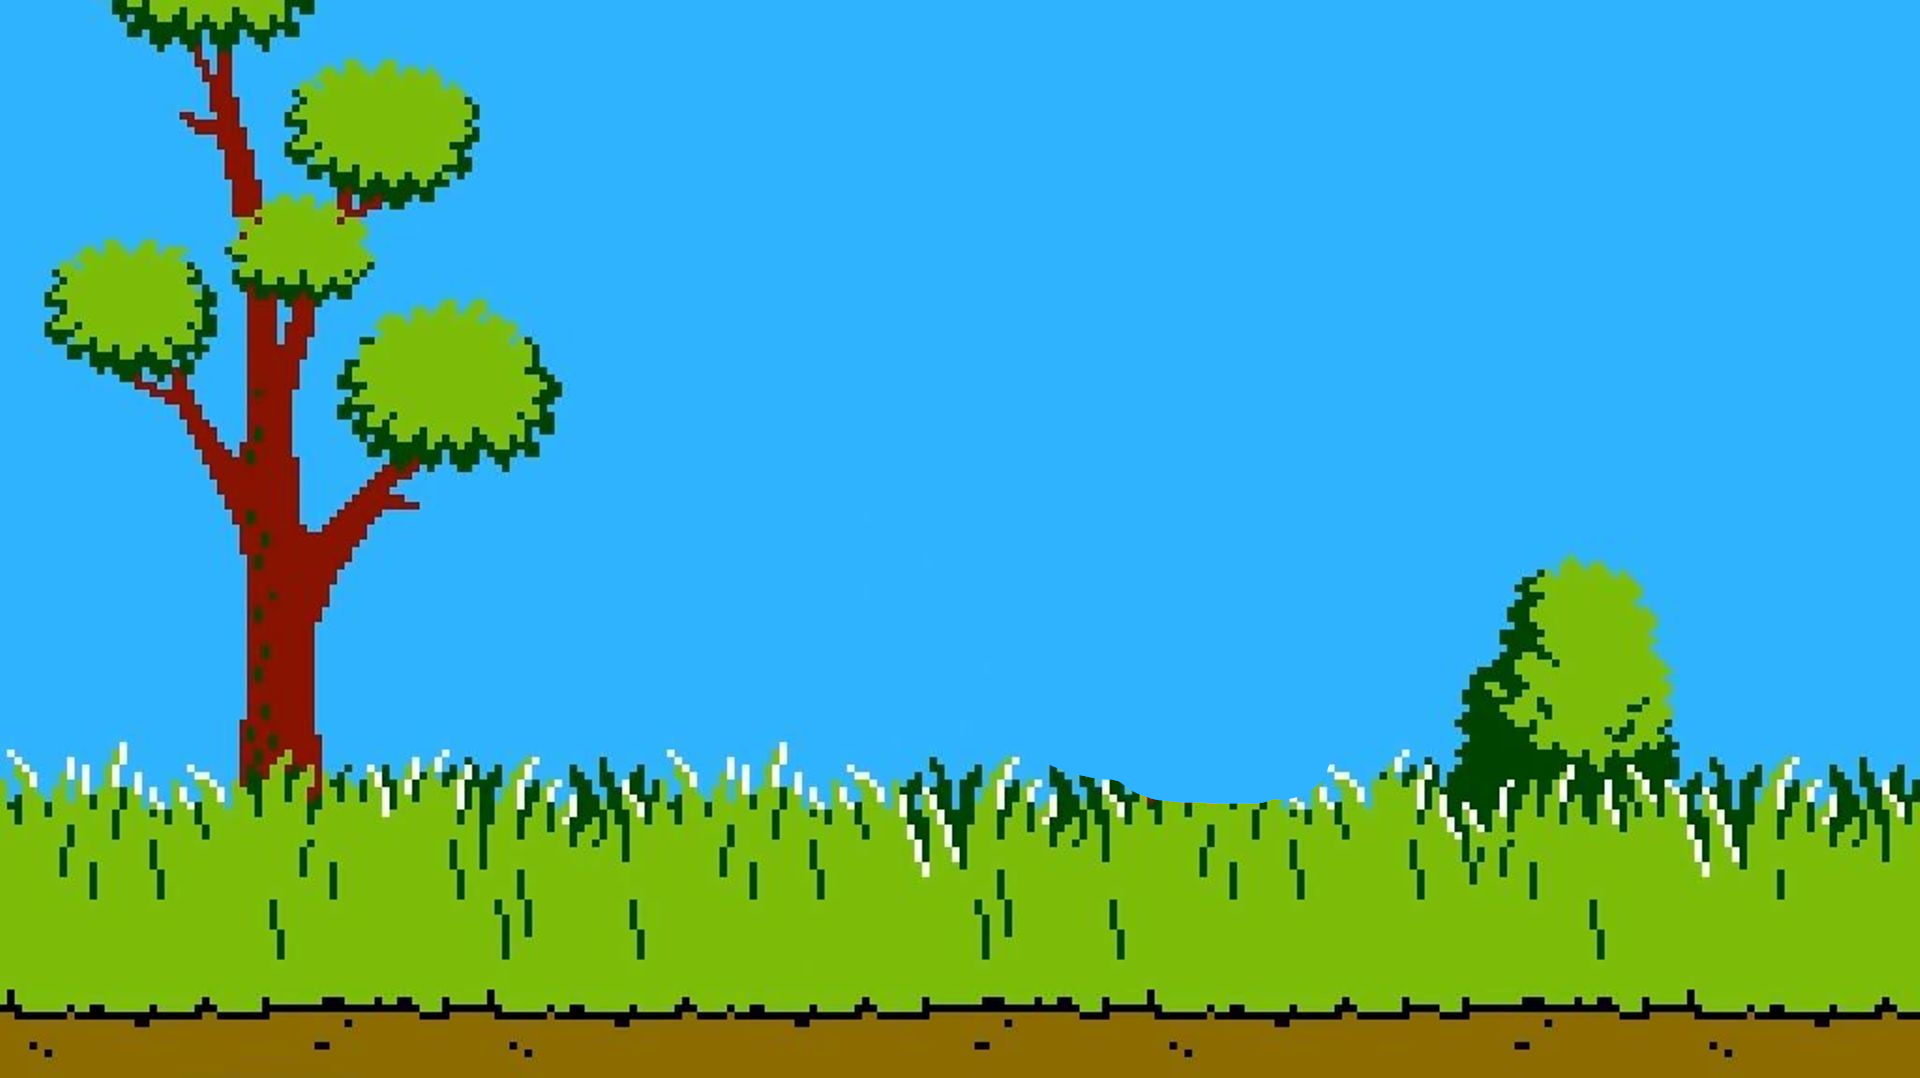
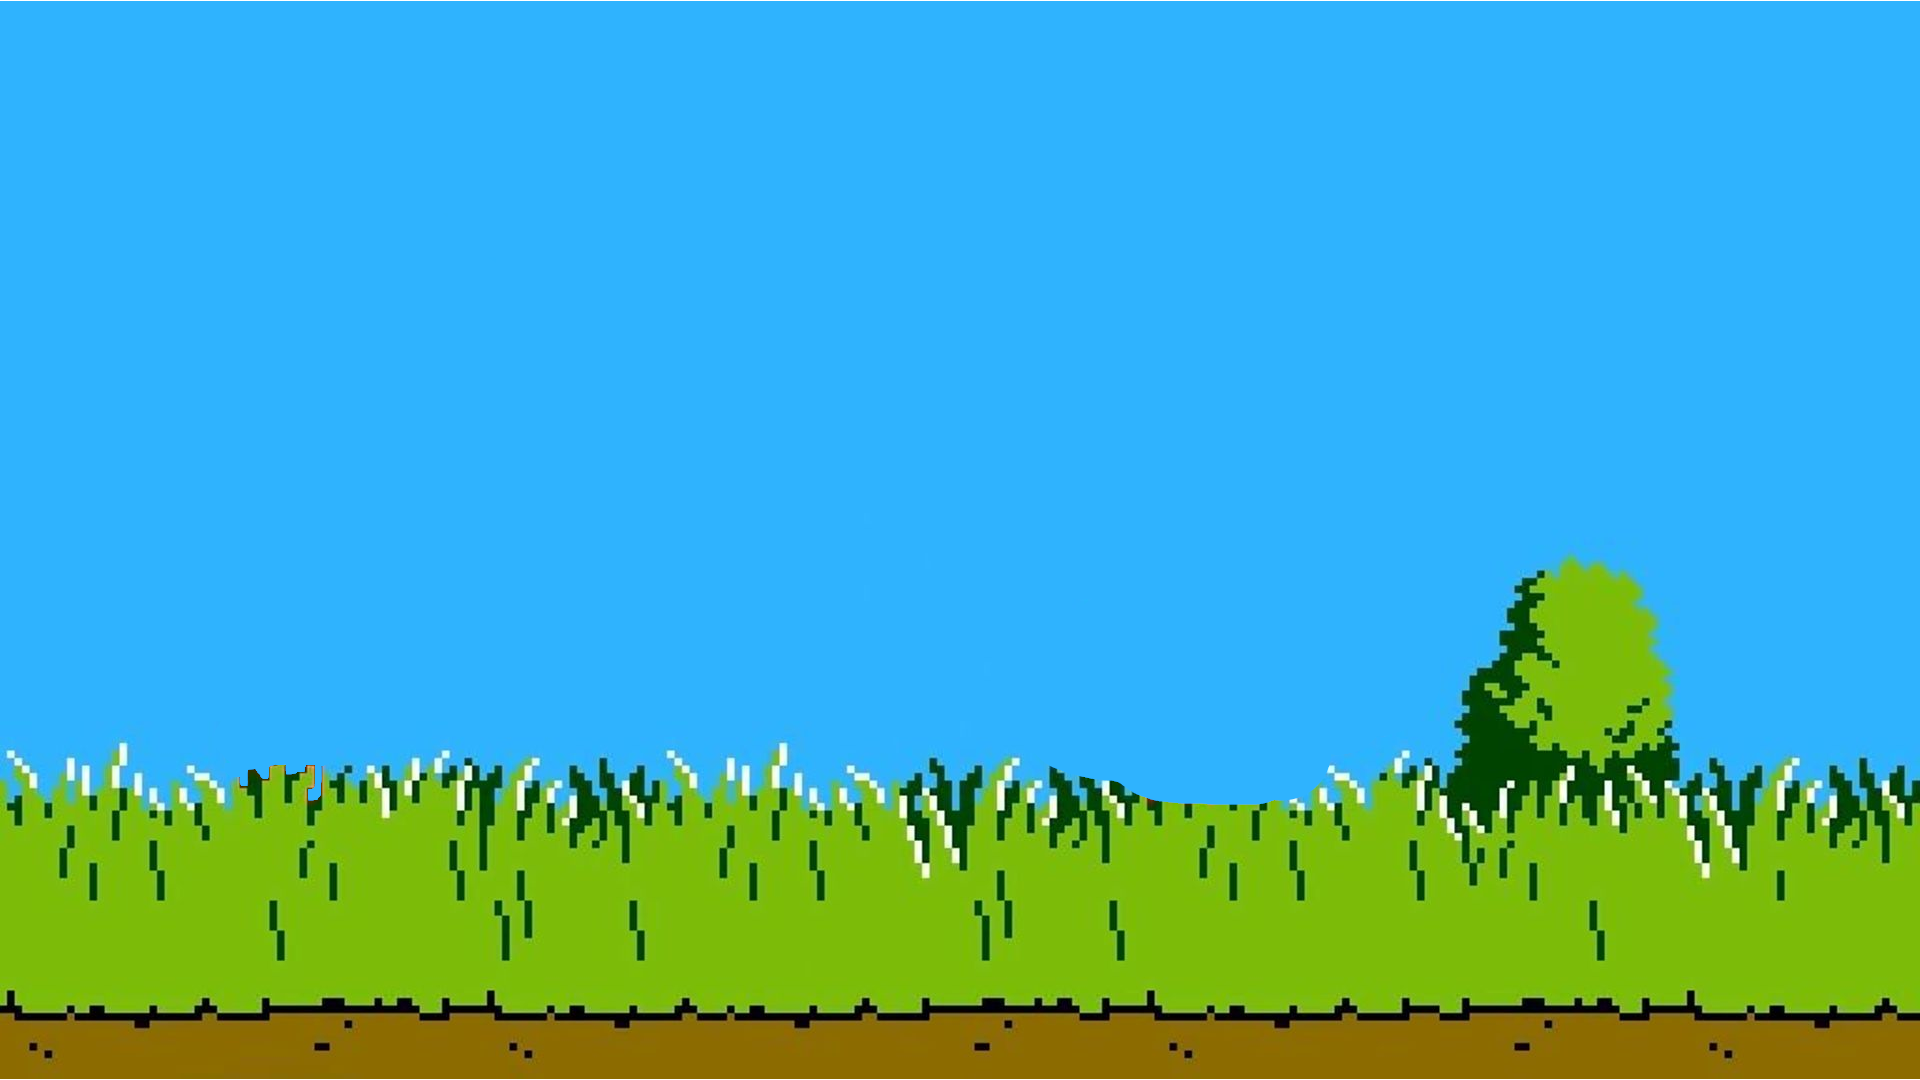
upd: sprites and layering

Changed region(s): [[0.0, 0.0, 0.3125, 0.7347], [0.0, 0.9184, 1.0, 0.949]]

diff --git a/src/hunter.c b/src/hunter.c
@@ -13,24 +13,25 @@
 static
 void handle_hunter_loop(hunterinfo_t *hf)
 {
-    sfTime time;
-    float seconds;
-
     event_manager(hf);
-    time = sfClock_getElapsedTime(hf->clock);
+    hf->clock.time = sfClock_getElapsedTime(hf->clock.clock);
+    hf->clock2.time = sfClock_getElapsedTime(hf->clock2.clock);
     sfRenderWindow_clear(hf->window, sfBlack);
     sfRenderWindow_drawSprite(hf->window, hf->background.sprite, NULL);
     display_ducks(hf);
+    sfRenderWindow_drawSprite(hf->window, hf->tree.sprite, NULL);
     sfRenderWindow_drawSprite(hf->window, hf->cursor.sprite, NULL);
     sfRenderWindow_drawText(hf->window, hf->score_text, NULL);
     sfRenderWindow_display(hf->window);
-    for (int i = 0; i < DUCK_NBR; i++)
-        move_duck(hf, (sfVector2f){ 1, 0 }, i);
-    seconds = time.microseconds / 1000000.0;
-    if (seconds > 0.5) {
+    if (MICRO_TO_SEC(hf->clock.time) > 0.5) {
         for (int i = 0; i < DUCK_NBR; i++)
             hf->ducks[i].version++;
-        sfClock_restart(hf->clock);
+        sfClock_restart(hf->clock.clock);
+    }
+    if (MICRO_TO_SEC(hf->clock2.time) > 0.001) {
+        for (int i = 0; i < DUCK_NBR; i++)
+            move_duck(hf, (sfVector2f){ 1, 0 }, i);
+        sfClock_restart(hf->clock2.clock);
     }
 }
 
@@ -38,6 +39,7 @@ static
 void draw_all(hunterinfo_t *hf)
 {
     draw_background(hf);
+    draw_tree(hf);
     fill_ducks(hf);
     draw_cursor(hf);
     draw_score(hf);
@@ -51,7 +53,7 @@ int hunter(void)
     create_window(1920, 1080, &hf);
     draw_all(&hf);
     sfRenderWindow_setMouseCursorVisible(hf.window, false);
-    sfRenderWindow_setFramerateLimit(hf.window, 144);
+    sfRenderWindow_setFramerateLimit(hf.window, FRAMERATE);
     while (sfRenderWindow_isOpen(hf.window)) {
         handle_hunter_loop(&hf);
         if (hf.score == DUCK_NBR && hf.shoot) {

diff --git a/include/hunter.h b/include/hunter.h
@@ -10,8 +10,10 @@
     #include <SFML/Graphics.h>
     #define EXIT_FAILURE 84
     #define EXIT_SUCCESS 0
-    #define CURSOR_SIZE 128
+    #define CURSOR_SIZE 32
     #define DUCK_NBR 16
+    #define FRAMERATE 144
+    #define MICRO_TO_SEC(time) time.microseconds / 1000000.0
 
 typedef struct {
     sfTexture *texture;
@@ -22,9 +24,16 @@ typedef struct {
 } sprite_t;
 
 typedef struct {
-    sfRenderWindow *window;
     sfClock *clock;
+    sfTime time;
+} h_clock_t;
+
+typedef struct {
+    sfRenderWindow *window;
+    h_clock_t clock;
+    h_clock_t clock2;
     sprite_t background;
+    sprite_t tree;
     sprite_t cursor;
     sprite_t ducks[DUCK_NBR];
     sfEvent *event;
@@ -36,6 +45,7 @@ typedef struct {
 int hunter(void);
 int create_window(size_t x, size_t y, hunterinfo_t *);
 int draw_background(hunterinfo_t *);
+int draw_tree(hunterinfo_t *);
 void event_manager(hunterinfo_t *);
 int move_duck(hunterinfo_t *, sfVector2f, int);
 int create_clock(hunterinfo_t *);

diff --git a/src/renderer/background.c b/src/renderer/background.c
@@ -20,3 +20,15 @@ int draw_background(hunterinfo_t *hf)
         hf->background.texture, sfTrue);
     return EXIT_SUCCESS;
 }
+
+int draw_tree(hunterinfo_t *hf)
+{
+    hf->tree.texture = sfTexture_createFromFile("assets/tree.png",
+        NULL);
+    if (!hf->tree.texture)
+        return EXIT_FAILURE;
+    hf->tree.sprite = sfSprite_create();
+    sfSprite_setTexture(hf->tree.sprite,
+        hf->tree.texture, sfTrue);
+    return EXIT_SUCCESS;
+}

diff --git a/src/clock.c b/src/clock.c
@@ -10,8 +10,11 @@
 
 int create_clock(hunterinfo_t *hf)
 {
-    hf->clock = sfClock_create();
-    if (hf->clock == NULL)
+    hf->clock.clock = sfClock_create();
+    if (hf->clock.clock == NULL)
+        return EXIT_FAILURE;
+    hf->clock2.clock = sfClock_create();
+    if (hf->clock2.clock == NULL)
         return EXIT_FAILURE;
     return EXIT_SUCCESS;
 }

diff --git a/src/window/window_manager.c b/src/window/window_manager.c
@@ -5,9 +5,9 @@
 ** _
 */
 
+#include "hunter.h"
 #include "lib.h"
 #include <SFML/Graphics.h>
-#include "hunter.h"
 
 int create_window(size_t x, size_t y, hunterinfo_t *hunterinfo)
 {
